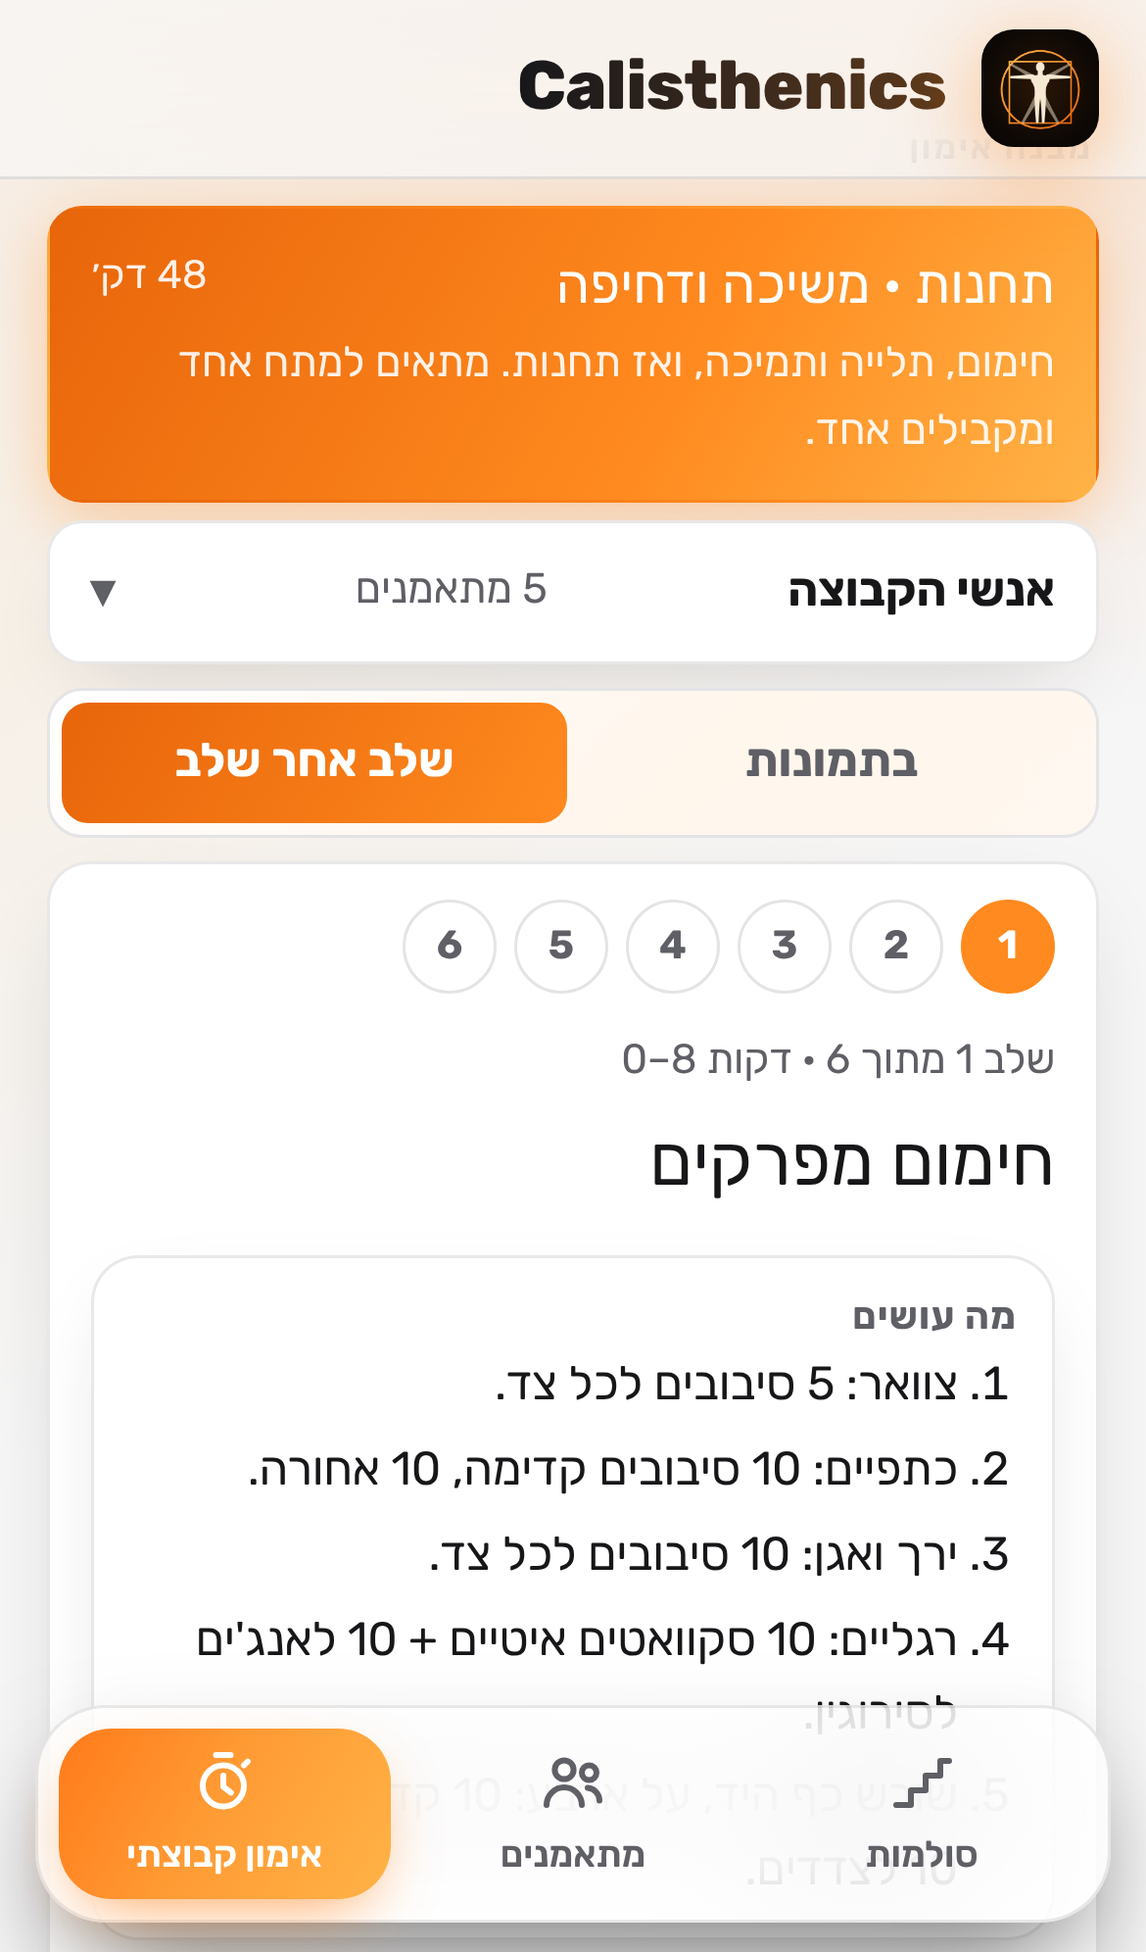
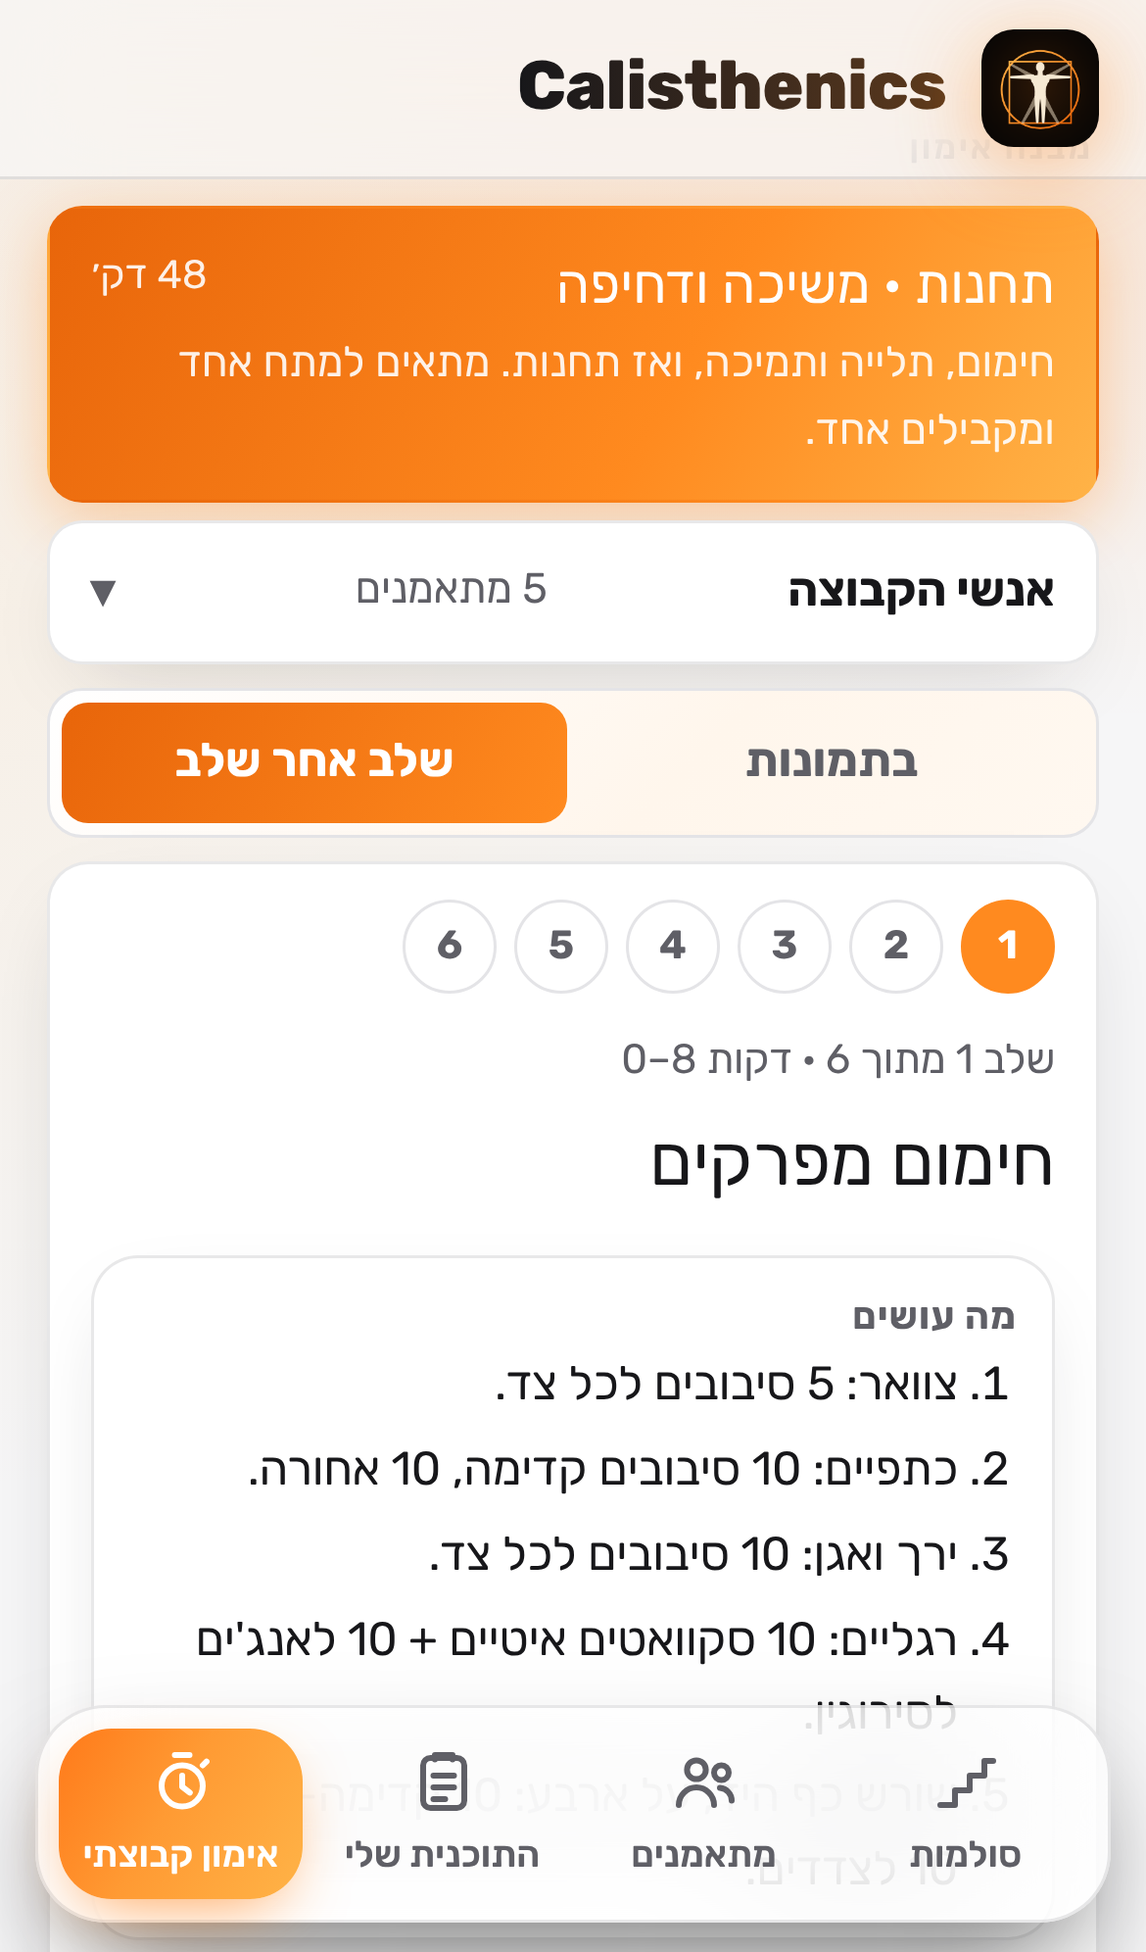
Personal workout plans: '+ add to workout plan' on every exercise and a new 'התוכנית שלי' tab
Plans hold exercises picked from any ladder; several plans with names; reorder,
remove, rename, delete; tapping an exercise in a plan opens it; plans are part
of the backup file.

Claude-Session: https://claude.ai/code/session_01RwiCNx1QSKkrPSoR9o77gm

Changed region(s): [[0.0615, 0.8715, 0.6769, 0.996], [0.7692, 0.9026, 0.8923, 0.9649]]

diff --git a/index.html b/index.html
@@ -114,7 +114,7 @@ button:focus-visible,a:focus-visible{outline:3px solid var(--accent);outline-off
 :root{--warn:#A4501A}
 @media (prefers-color-scheme: dark){:root:not([data-theme="light"]){--warn:#E8A06B}}
 :root[data-theme="dark"]{--warn:#E8A06B}
-.tabs{position:sticky;top:0;z-index:5;display:grid;grid-template-columns:repeat(3,minmax(0,1fr));gap:6px;margin:10px -16px 16px;padding:8px 16px;background:var(--bg);border-bottom:1px solid var(--line)}
+.tabs{position:sticky;top:0;z-index:5;display:grid;grid-template-columns:repeat(4,minmax(0,1fr));gap:6px;margin:10px -16px 16px;padding:8px 16px;background:var(--bg);border-bottom:1px solid var(--line)}
 .tab{font:inherit;font-weight:700;font-size:.95rem;padding:9px 4px;border-radius:10px;border:1.5px solid var(--line);background:var(--surface);color:var(--ink);cursor:pointer}
 .tab[aria-pressed="true"]{background:var(--ink);border-color:var(--ink);color:var(--surface)}
 .search,.addrow input,.fl textarea,.fl select,.srow select,#sadd{font:inherit;font-size:16px;width:100%;box-sizing:border-box;padding:9px 12px;border-radius:10px;border:1.5px solid var(--line);background:var(--surface);color:var(--ink)}
@@ -395,7 +395,7 @@ h1,h2,h3,.cat,.ladhead h2,.num,.tab,.track,.prow b{font-family:var(--display)}
 
 /* bottom tab bar */
 .tabs{position:fixed;inset:auto 12px calc(10px + env(safe-area-inset-bottom,0px)) 12px;top:auto;z-index:20;max-width:560px;margin:0 auto;
-  display:grid;grid-template-columns:repeat(3,1fr);gap:6px;padding:7px;border-radius:24px;border:1px solid var(--glass-b);
+  display:grid;grid-template-columns:repeat(4,1fr);gap:6px;padding:7px;border-radius:24px;border:1px solid var(--glass-b);
   background:color-mix(in srgb,var(--surface) 70%,transparent);-webkit-backdrop-filter:blur(22px) saturate(1.6);backdrop-filter:blur(22px) saturate(1.6);box-shadow:0 18px 40px -12px rgba(0,0,0,.6)}
 .tab{display:flex;flex-direction:column;align-items:center;justify-content:center;gap:3px;min-height:54px;padding:6px 4px;border:0!important;border-radius:18px;
   background:transparent!important;color:var(--muted)!important;font-weight:600;font-size:.78rem;letter-spacing:0}
@@ -496,6 +496,36 @@ h1,h2,h3,.cat,.ladhead h2,.num,.tab,.track,.prow b{font-family:var(--display)}
 .wlab.on{color:#111}.wlab.dim{opacity:.45}
 #lfam .wheelwrap{display:none}
 #nextcard{display:none}
+.plbox{display:flex;flex-wrap:wrap;gap:8px;align-items:center;margin:0 0 12px}
+.pladd{font:inherit;font-weight:800;width:100%;padding:12px 16px;border-radius:999px;border:1.5px dashed #FF8A1F;background:transparent;color:#FF8A1F;cursor:pointer}
+.pltag{display:inline-flex;align-items:center;gap:6px;padding:6px 6px 6px 12px;border-radius:999px;background:rgba(255,138,31,.14);color:#FF8A1F;font-weight:700;font-size:.85rem}
+.pltag .plrm{font:inherit;width:24px;height:24px;border-radius:50%;border:0;background:rgba(255,138,31,.25);color:var(--ink);cursor:pointer;padding:0}
+.plchoose{display:flex;flex-wrap:wrap;gap:8px;align-items:center;width:100%;padding:10px;border-radius:14px;border:1px solid rgba(255,138,31,.45)}
+.plchoose b{width:100%;font-size:.85rem;color:var(--muted)}
+.plchoose button{font:inherit;font-weight:700;padding:9px 14px;border-radius:999px;border:1.5px solid #FF8A1F;background:transparent;color:#FF8A1F;cursor:pointer}
+.plchoose .plpick:not([data-p="new"]){background:#FF8A1F;color:#111}
+.pltoast{position:fixed;left:50%;bottom:calc(96px + env(safe-area-inset-bottom,0px));transform:translate(-50%,20px);opacity:0;pointer-events:none;z-index:30;
+  padding:11px 18px;border-radius:999px;background:#FF8A1F;color:#111;font-weight:800;transition:opacity .2s,transform .2s;white-space:nowrap}
+.pltoast.on{opacity:1;transform:translate(-50%,0)}
+.plh{margin:4px 0 12px;font-size:1.35rem}
+.plcard{border-radius:18px;border:1px solid var(--card-b,var(--line));background:var(--card,var(--surface));margin-bottom:10px;overflow:hidden}
+.plcard.open{border-color:#FF8A1F}
+.plhead{font:inherit;width:100%;display:flex;justify-content:space-between;align-items:center;gap:10px;padding:16px;border:0;background:transparent;color:var(--ink);cursor:pointer;text-align:start}
+.plhead b{font-size:1.08rem}.plhead span{color:#FF8A1F;font-size:.85rem;font-weight:700}
+.pllist{list-style:none;margin:0;padding:0 12px;display:grid;gap:8px;counter-reset:pl}
+.plrow{display:flex;align-items:center;gap:8px;padding:10px;border-radius:14px;background:#0B0B0C;counter-increment:pl}
+.plrow::before{content:counter(pl);flex:none;width:26px;height:26px;border-radius:50%;display:grid;place-items:center;background:rgba(255,138,31,.16);color:#FF8A1F;font-weight:800;font-size:.85rem}
+.plrow.ok::before{content:"✓";background:#FF8A1F;color:#111}
+.plgo{font:inherit;flex:1;min-width:0;text-align:start;border:0;background:transparent;color:var(--ink);cursor:pointer;padding:0}
+.plgo b{display:block}.plgo small{display:block;color:var(--muted);font-size:.72rem}.plgo em{display:block;font-style:normal;color:#FF8A1F;font-size:.75rem;margin-top:2px}
+.plctl{display:flex;gap:4px;flex:none}
+.plctl button{font:inherit;width:30px;height:30px;border-radius:9px;border:1px solid var(--line);background:transparent;color:var(--ink);cursor:pointer;padding:0}
+.plctl button:disabled{opacity:.25}
+.plempty{color:var(--muted);padding:6px 4px 10px;line-height:1.5}
+.plbtns{display:flex;flex-wrap:wrap;gap:8px;padding:12px}
+.plbtns button{font:inherit;font-weight:700;padding:9px 14px;border-radius:999px;border:1.5px solid #FF8A1F;background:transparent;color:#FF8A1F;cursor:pointer}
+.plbtns .pladdmore{background:#FF8A1F;color:#111}
+.plbtns .pldel{border-color:rgba(255,107,129,.6);color:#FF8A9B;margin-inline-start:auto}
 .rnbtn{font:inherit;font-size:.85rem;padding:6px 2px;margin:0 0 8px;border:0;background:none;color:var(--muted);cursor:pointer;text-decoration:underline}
 .rnform{display:grid;gap:8px;margin:0 0 12px;padding:12px;border-radius:14px;border:1px solid rgba(255,138,31,.45)}
 .rnform label{display:grid;gap:4px;font-size:.8rem;color:var(--muted)}
@@ -558,6 +588,7 @@ h1,h2,h3,.cat,.ladhead h2,.num,.tab,.track,.prow b{font-family:var(--display)}
   <nav class="tabs" id="tabs" aria-label="מסכים">
     <button class="tab" data-v="lib" aria-pressed="true"><svg viewBox="0 0 24 24" aria-hidden="true"><path d="M3 20h5v-5h5v-5h5V5h3"/></svg><span>סולמות</span></button>
     <button class="tab" data-v="tr" aria-pressed="false"><svg viewBox="0 0 24 24" aria-hidden="true"><circle cx="9" cy="8" r="3.2"/><path d="M3 20c0-3.3 2.7-6 6-6s6 2.7 6 6"/><circle cx="17.5" cy="9" r="2.5"/><path d="M17 14.2c2.3.2 4 2 4 4.3"/></svg><span>מתאמנים</span></button>
+    <button class="tab" data-v="plan" aria-pressed="false"><svg viewBox="0 0 24 24" aria-hidden="true"><rect x="5" y="4" width="14" height="17" rx="2.5"/><path d="M9 4.5V3h6v1.5M8.5 10h7M8.5 14h7M8.5 18h4"/></svg><span>התוכנית שלי</span></button>
     <button class="tab" data-v="ses" aria-pressed="false"><svg viewBox="0 0 24 24" aria-hidden="true"><circle cx="12" cy="13.5" r="7"/><path d="M12 10v3.8l2.6 2M9.5 3h5M19 6.5l1.3-1.3"/></svg><span>אימון קבוצתי</span></button>
   </nav>
   <section id="v-lib">
@@ -597,6 +628,10 @@ h1,h2,h3,.cat,.ladhead h2,.num,.tab,.track,.prow b{font-family:var(--display)}
     <p class="fine">הנתונים נשמרים בטלפון הזה בלבד. כדאי לעשות גיבוי מדי פעם.</p>
   </section>
 
+  <section id="v-plan" hidden>
+    <div id="plbody"></div>
+  </section>
+
   <section id="v-ses" hidden>
     <div id="sbody"></div>
     <div class="msg" id="smsg" hidden></div>
@@ -607,7 +642,7 @@ h1,h2,h3,.cat,.ladhead h2,.num,.tab,.track,.prow b{font-family:var(--display)}
 <script>
 // the phone (an app added to the home screen) can keep showing an old saved copy of this page. Each time the app opens
 // or comes back to the front it asks the server for the current page; when its BUILD differs, it loads the new one.
-const BUILD="20261105154952";
+const BUILD="20261105160507";
 (function(){let busy=false;
   const check=()=>{if(busy||!navigator.onLine||location.protocol==="file:")return;busy=true;
     fetch(location.pathname+"?check="+Date.now(),{cache:"no-store"}).then(r=>r.ok?r.text():"").then(t=>{
@@ -2335,6 +2370,7 @@ function renderRail(){
           <div class="box pass"><b>מתי עוברים לשלב הבא</b>${esc(s.pass)}</div>
           ${dn?`<div class="passrow on"><span>✓ סימנת שהצלחת את התרגיל</span><button class="passbtn" data-i="${i}">ביטול</button></div>`
               :`<div class="passrow"><button class="passbtn go" data-i="${i}">✓ הצלחתי את התרגיל</button></div>`}
+          ${planBox(s,i)}
           ${rnOpen===i?`<div class="rnform"><label>שם בעברית<input class="rnhe" value="${esc(s.he||"")}"></label>
               <label>שם באנגלית<input class="rnen" dir="ltr" value="${esc(s.en||s.ex)}"></label>
               <div class="rnb"><button class="rnsave" data-i="${i}">שמירה</button>${NAMES[s.ex]?`<button class="rnreset" data-i="${i}">החזרת השם המקורי</button>`:""}<button class="rncancel">ביטול</button></div></div>`
@@ -2438,6 +2474,7 @@ $("rail").onkeydown=e=>{
 $("rail").onclick=e=>{
   const rq=e.target.closest(".reqlink");if(rq){openStep(rq.dataset.rk,+rq.dataset.rx);return;}
   if(e.target.closest(".rnform input"))return;
+  const pa=e.target.closest(".pladd,.plpick,.plrm,.plcancel");if(pa){planClick(pa);return;}
   const rn=e.target.closest(".rnbtn,.rnsave,.rnreset,.rncancel");if(rn){
     const T=TR()[st.t],steps=st.l<0?T.ladders.flatMap(L=>L.steps):T.ladders[st.l].steps,i=+rn.dataset.i,x=steps[i];
     if(rn.classList.contains("rnbtn")) rnOpen=i;
@@ -2454,7 +2491,7 @@ $("rail").onclick=e=>{
     if(P[x.ex])delete P[x.ex];else P[x.ex]=1;saveProg(P);renderRail();return;}
   const h=e.target.closest(".head"), g=e.target.closest(".mv");
   if(h && h.classList.contains("head") && hasSelection()) return;
-  if(h){const i=+h.dataset.i;st.open=st.open===i?-1:i;rnOpen=-1;renderRail();}
+  if(h){const i=+h.dataset.i;st.open=st.open===i?-1:i;rnOpen=-1;plPick=-1;renderRail();}
   else if(g){st.open=+g.dataset.go;renderRail();}
   else return;
   const el=document.querySelectorAll(".step")[st.open];
@@ -2463,6 +2500,62 @@ $("rail").onclick=e=>{
 all();
 
 // ===== Coach mode: trainees with a level per ladder, and a group session that gives each person their own step =====
+// ---------- personal workout plans: exercises collected from the ladders ----------
+// {list:[{id,name,items:[exercise id]}]} kept on this phone
+const PL=(()=>{try{const j=JSON.parse(localStorage.getItem("cal-plans")||"null");if(j&&Array.isArray(j.list))return j;}catch(e){}return {list:[]};})();
+const plSave=()=>{try{localStorage.setItem("cal-plans",JSON.stringify(PL))}catch(e){}};
+let plPick=-1,plOpen=null;
+const plNew=name=>{const p={id:"p"+Date.now().toString(36),name:name||"התוכנית שלי",items:[]};PL.list.push(p);plSave();return p;};
+function planBox(s,i){
+  const inP=PL.list.filter(p=>p.items.includes(s.ex));
+  const tags=inP.map(p=>`<span class="pltag">✓ בתוכנית: ${esc(p.name)} <button class="plrm" data-i="${i}" data-p="${p.id}" aria-label="הוצאה מהתוכנית">✕</button></span>`).join("");
+  const rest=PL.list.filter(p=>!p.items.includes(s.ex));
+  let act="";
+  if(plPick===i) act=`<div class="plchoose"><b>לאיזו תוכנית?</b>${rest.map(p=>`<button class="plpick" data-i="${i}" data-p="${p.id}">${esc(p.name)}</button>`).join("")}<button class="plpick" data-i="${i}" data-p="new">+ תוכנית חדשה</button><button class="plcancel">ביטול</button></div>`;
+  else if(rest.length||!PL.list.length) act=`<button class="pladd" data-i="${i}">+ הוספה לתוכנית האימון</button>`;
+  return `<div class="plbox">${tags}${act}</div>`;}
+function planToast(t){let el=$("pltoast");if(!el){el=document.createElement("div");el.id="pltoast";el.className="pltoast";document.body.appendChild(el);}
+  el.textContent=t;el.classList.add("on");clearTimeout(el._t);el._t=setTimeout(()=>el.classList.remove("on"),1800);}
+function planClick(b){
+  const T=TR()[st.t],steps=st.l<0?T.ladders.flatMap(L=>L.steps):T.ladders[st.l].steps,x=steps[+b.dataset.i];
+  const addTo=p=>{if(!p.items.includes(x.ex))p.items.push(x.ex);plSave();planToast(`נוסף לתוכנית: ${p.name}`);};
+  if(b.classList.contains("pladd")){const rest=PL.list.filter(p=>!p.items.includes(x.ex));
+    if(!PL.list.length) addTo(plNew());
+    else if(PL.list.length===1&&rest.length===1) addTo(rest[0]);
+    else plPick=+b.dataset.i;}
+  else if(b.classList.contains("plpick")){let p=PL.list.find(q=>q.id===b.dataset.p);
+    if(b.dataset.p==="new"){const n=prompt("שם התוכנית החדשה","תוכנית "+(PL.list.length+1));if(n===null)return;p=plNew(n.trim()||("תוכנית "+(PL.list.length+1)));}
+    if(p)addTo(p);plPick=-1;}
+  else if(b.classList.contains("plrm")){const p=PL.list.find(q=>q.id===b.dataset.p);if(p){p.items=p.items.filter(e=>e!==x.ex);plSave();}}
+  else plPick=-1;
+  renderRail();}
+const stepByEx=ex=>{for(const L of LADS){const i=L.steps.findIndex(s=>s.ex===ex);if(i>=0)return {L,i,s:L.steps[i]};}return null;};
+function renderPlan(){
+  if(plOpen&&!PL.list.some(p=>p.id===plOpen))plOpen=null;
+  if(!plOpen&&PL.list.length===1)plOpen=PL.list[0].id;
+  const P=prog();
+  const card=p=>{const open=p.id===plOpen;
+    const rows=p.items.map((ex,k)=>{const q=stepByEx(ex);if(!q)return "";const s=q.s;
+      return `<li class="plrow${P[ex]?" ok":""}"><button class="plgo" data-ex="${esc(ex)}"><b>${esc(s.he||s.en||s.ex)}</b><small dir="ltr">${esc(s.en||s.ex)}</small>
+        <em>${esc(lnHe(q.L.l))} · רמה ${esc(s.lvn)} · ${esc(s.pass)}</em></button>
+        <span class="plctl"><button class="plup" data-p="${p.id}" data-k="${k}" ${k?"":"disabled"} aria-label="למעלה">↑</button><button class="pldn" data-p="${p.id}" data-k="${k}" ${k<p.items.length-1?"":"disabled"} aria-label="למטה">↓</button><button class="plx" data-p="${p.id}" data-k="${k}" aria-label="הוצאה">✕</button></span></li>`;}).join("");
+    return `<div class="plcard${open?" open":""}"><button class="plhead" data-p="${p.id}"><b>${esc(p.name)}</b><span>${p.items.length} תרגילים</span></button>
+      ${open?`<ol class="pllist">${rows||`<li class="plempty">עוד אין תרגילים. בוחרים תרגיל בסולמות ולוחצים "+ הוספה לתוכנית האימון".</li>`}</ol>
+        <div class="plbtns"><button class="pladdmore">+ הוספת תרגיל</button><button class="plren" data-p="${p.id}">✎ שינוי שם</button><button class="pldel" data-p="${p.id}">מחיקת התוכנית</button></div>`:""}</div>`;};
+  $("plbody").innerHTML=`<h2 class="plh">תוכניות האימון שלי</h2>
+    ${PL.list.length?PL.list.map(card).join(""):`<p class="empty">כאן בונים תוכנית אימון אישית. פותחים תרגיל בסולמות, לוחצים "+ הוספה לתוכנית האימון", והוא נכנס לכאן.</p>`}
+    <form id="plnewf" class="addrow"><input id="plnewn" placeholder="שם תוכנית חדשה" autocomplete="off" aria-label="שם תוכנית חדשה"><button>יצירה</button></form>`;}
+$("plbody").onclick=e=>{const b=e.target.closest("button");if(!b)return;const p=PL.list.find(q=>q.id===b.dataset.p);
+  if(b.classList.contains("plhead")){plOpen=plOpen===p.id?null:p.id;}
+  else if(b.classList.contains("plgo")){const q=stepByEx(b.dataset.ex);if(q)openStep(q.L.key,q.i);return;}
+  else if(b.classList.contains("pladdmore")){lv.v="home";show("lib");planToast("בוחרים תרגיל ולוחצים + הוספה לתוכנית האימון");return;}
+  else if(p&&b.classList.contains("plren")){const n=prompt("שם התוכנית",p.name);if(n&&n.trim())p.name=n.trim();}
+  else if(p&&b.classList.contains("pldel")){if(!confirm(`למחוק את "${p.name}"?`))return;PL.list=PL.list.filter(q=>q!==p);}
+  else if(p&&(b.classList.contains("plup")||b.classList.contains("pldn"))){const k=+b.dataset.k,j=k+(b.classList.contains("plup")?-1:1);[p.items[k],p.items[j]]=[p.items[j],p.items[k]];}
+  else if(p&&b.classList.contains("plx")){p.items.splice(+b.dataset.k,1);}
+  else return;
+  plSave();renderPlan();};
+$("plbody").onsubmit=e=>{e.preventDefault();const n=$("plnewn").value.trim();const p=plNew(n||("תוכנית "+(PL.list.length+1)));plOpen=p.id;renderPlan();};
 const LADS=[];
 DATA.forEach((c,ci)=>c.tracks.forEach((t,ti)=>t.ladders.forEach((l,li)=>LADS.push({key:c.name+" › "+t.name+" › "+l.name,ci,ti,li,t:t.name,l:l.name,steps:l.steps}))));
 const LAD=k=>LADS.find(x=>x.key===k);
@@ -2531,12 +2624,13 @@ const fmtDate=d=>{try{return new Date(d).toLocaleDateString("he-IL",{day:"numeri
 let view="lib";
 function show(v){
   view=v;closeCard();
-  [["lib","v-lib"],["tr","v-tr"],["ses","v-ses"]].forEach(([id,s])=>$(s).hidden=id!==v);
+  [["lib","v-lib"],["tr","v-tr"],["plan","v-plan"],["ses","v-ses"]].forEach(([id,s])=>$(s).hidden=id!==v);
   document.querySelectorAll(".tab").forEach(b=>b.setAttribute("aria-pressed",b.dataset.v===v));
   try{localStorage.setItem("cal-view",v)}catch(e){}
   if(v==="lib") showLib(lv.v||"home"); else TD.stop();
   if(v==="tr") renderTr();
   if(v==="ses") renderSes();
+  if(v==="plan") renderPlan();
 }
 $("tabs").onclick=e=>{const b=e.target.closest(".tab");if(b){show(b.dataset.v);window.scrollTo(0,0);}};
 function openStep(k,x){
@@ -2602,7 +2696,7 @@ $("trlist").onclick=e=>{
   CO.trainees=CO.trainees.filter(x=>x!==tr);CO.ses.present=CO.ses.present.filter(x=>x!==tr.id);csave();renderTr();
 };
 $("exp").onclick=async()=>{
-  const txt=JSON.stringify({app:"calisthenics-coach",v:1,data:{trainees:CO.trainees,log:CO.log}},null,1);
+  const txt=JSON.stringify({app:"calisthenics-coach",v:1,data:{trainees:CO.trainees,log:CO.log,plans:PL.list}},null,1);
   const name=`calisthenics-backup-${new Date().toISOString().slice(0,10)}.json`;
   try{const f=new File([txt],name,{type:"application/json"});
     if(navigator.canShare&&navigator.canShare({files:[f]})){await navigator.share({files:[f],title:name});return;}}
@@ -2614,7 +2708,7 @@ $("imp").onchange=async e=>{
   const f=e.target.files&&e.target.files[0];if(!f)return;
   try{const j=JSON.parse(await f.text()),d=j.data||j;if(!Array.isArray(d.trainees))throw 0;
     if(confirm(`לשחזר ${d.trainees.length} מתאמנים מהגיבוי? זה מחליף את הרשימה הנוכחית.`)){
-      CO.trainees=d.trainees;CO.trainees.forEach(t=>{if(t.grp==null)t.grp=true;});CO.log=Array.isArray(d.log)?d.log:[];CO.ses.present=CO.trainees.filter(t=>t.grp).map(t=>t.id);CO.ses.done={};csave();renderTr();}}
+      CO.trainees=d.trainees;CO.trainees.forEach(t=>{if(t.grp==null)t.grp=true;});CO.log=Array.isArray(d.log)?d.log:[];CO.ses.present=CO.trainees.filter(t=>t.grp).map(t=>t.id);CO.ses.done={};csave();if(Array.isArray(d.plans)){PL.list=d.plans;plSave();}renderTr();}}
   catch(_){alert("הקובץ לא נראה כמו גיבוי של האפליקציה");}
   e.target.value="";
 };
@@ -2945,7 +3039,7 @@ function finish(){
   m.scrollIntoView({block:"center"});
 }
 let v0="lib";try{v0=localStorage.getItem("cal-view")||"lib"}catch(e){}
-if(!["lib","tr","ses"].includes(v0)) v0="lib";
+if(!["lib","tr","plan","ses"].includes(v0)) v0="lib";
 show(v0);
 </script>
 
